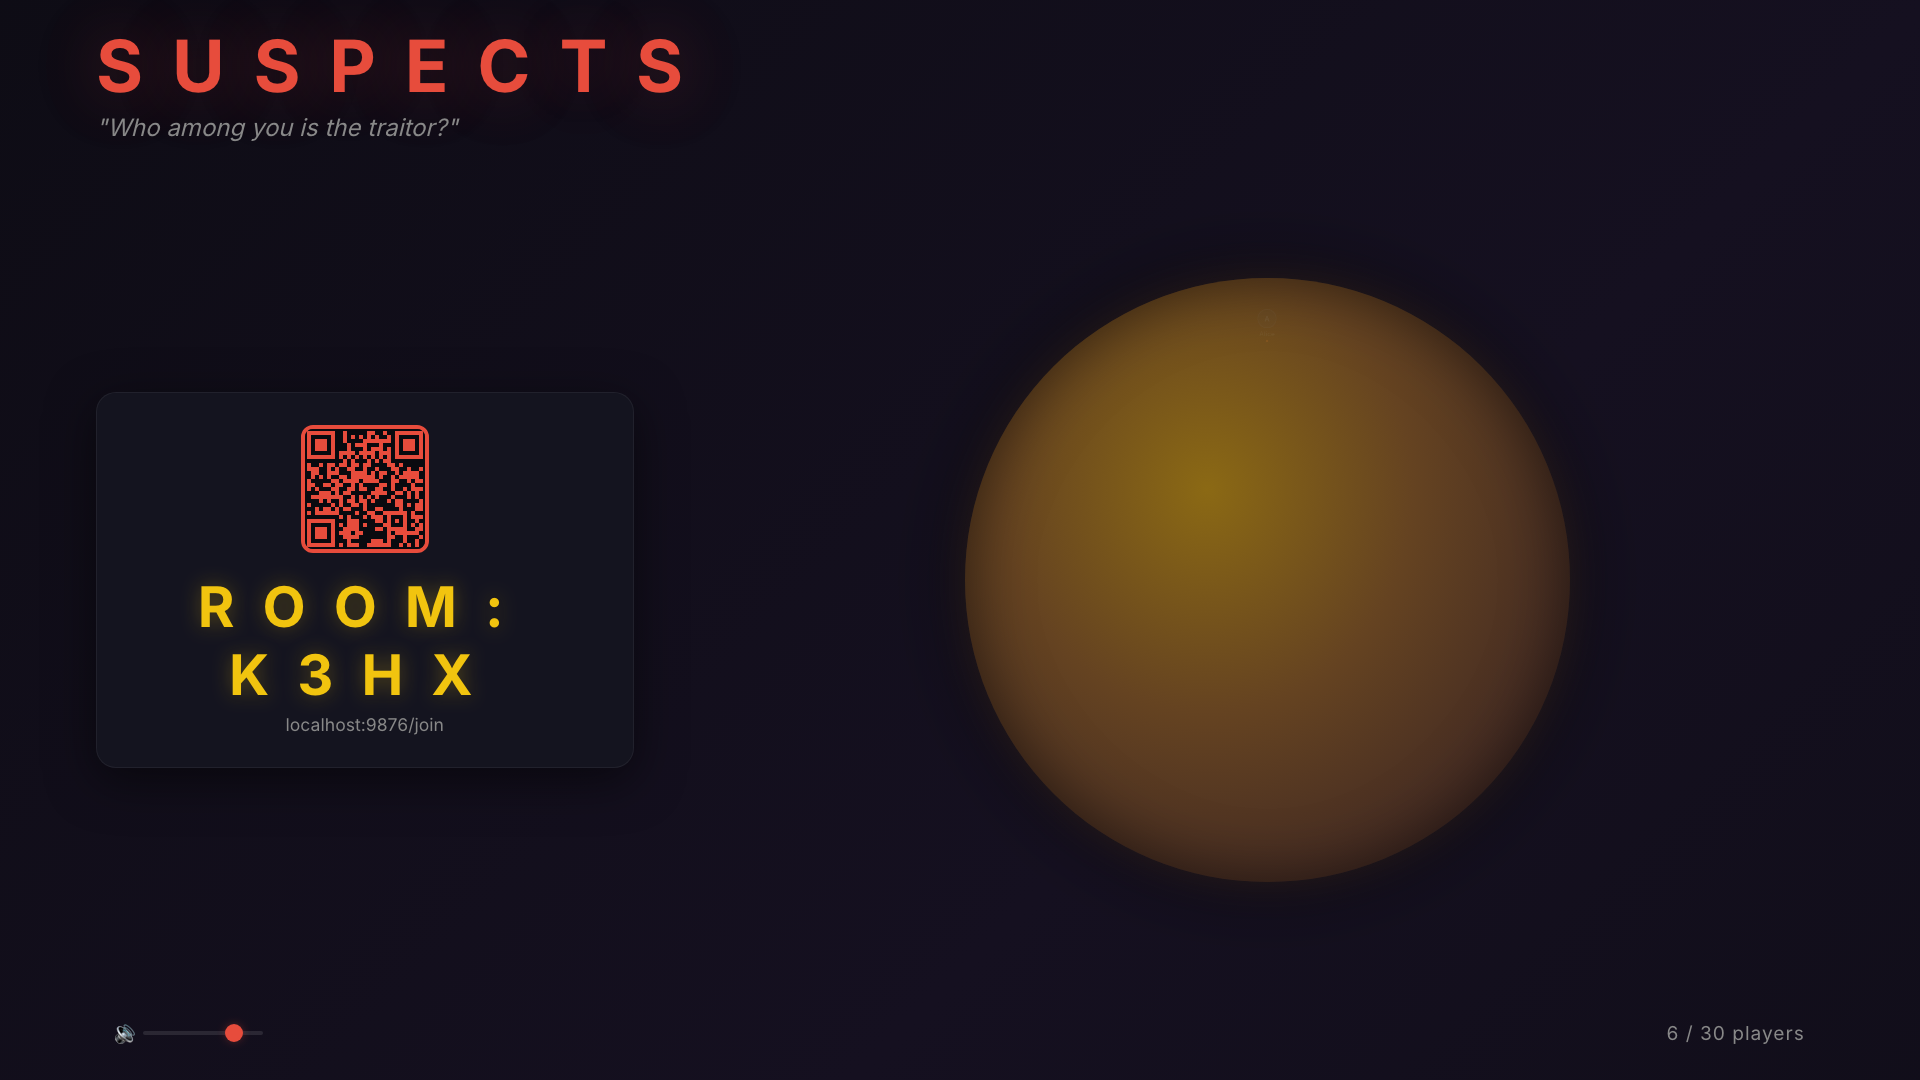
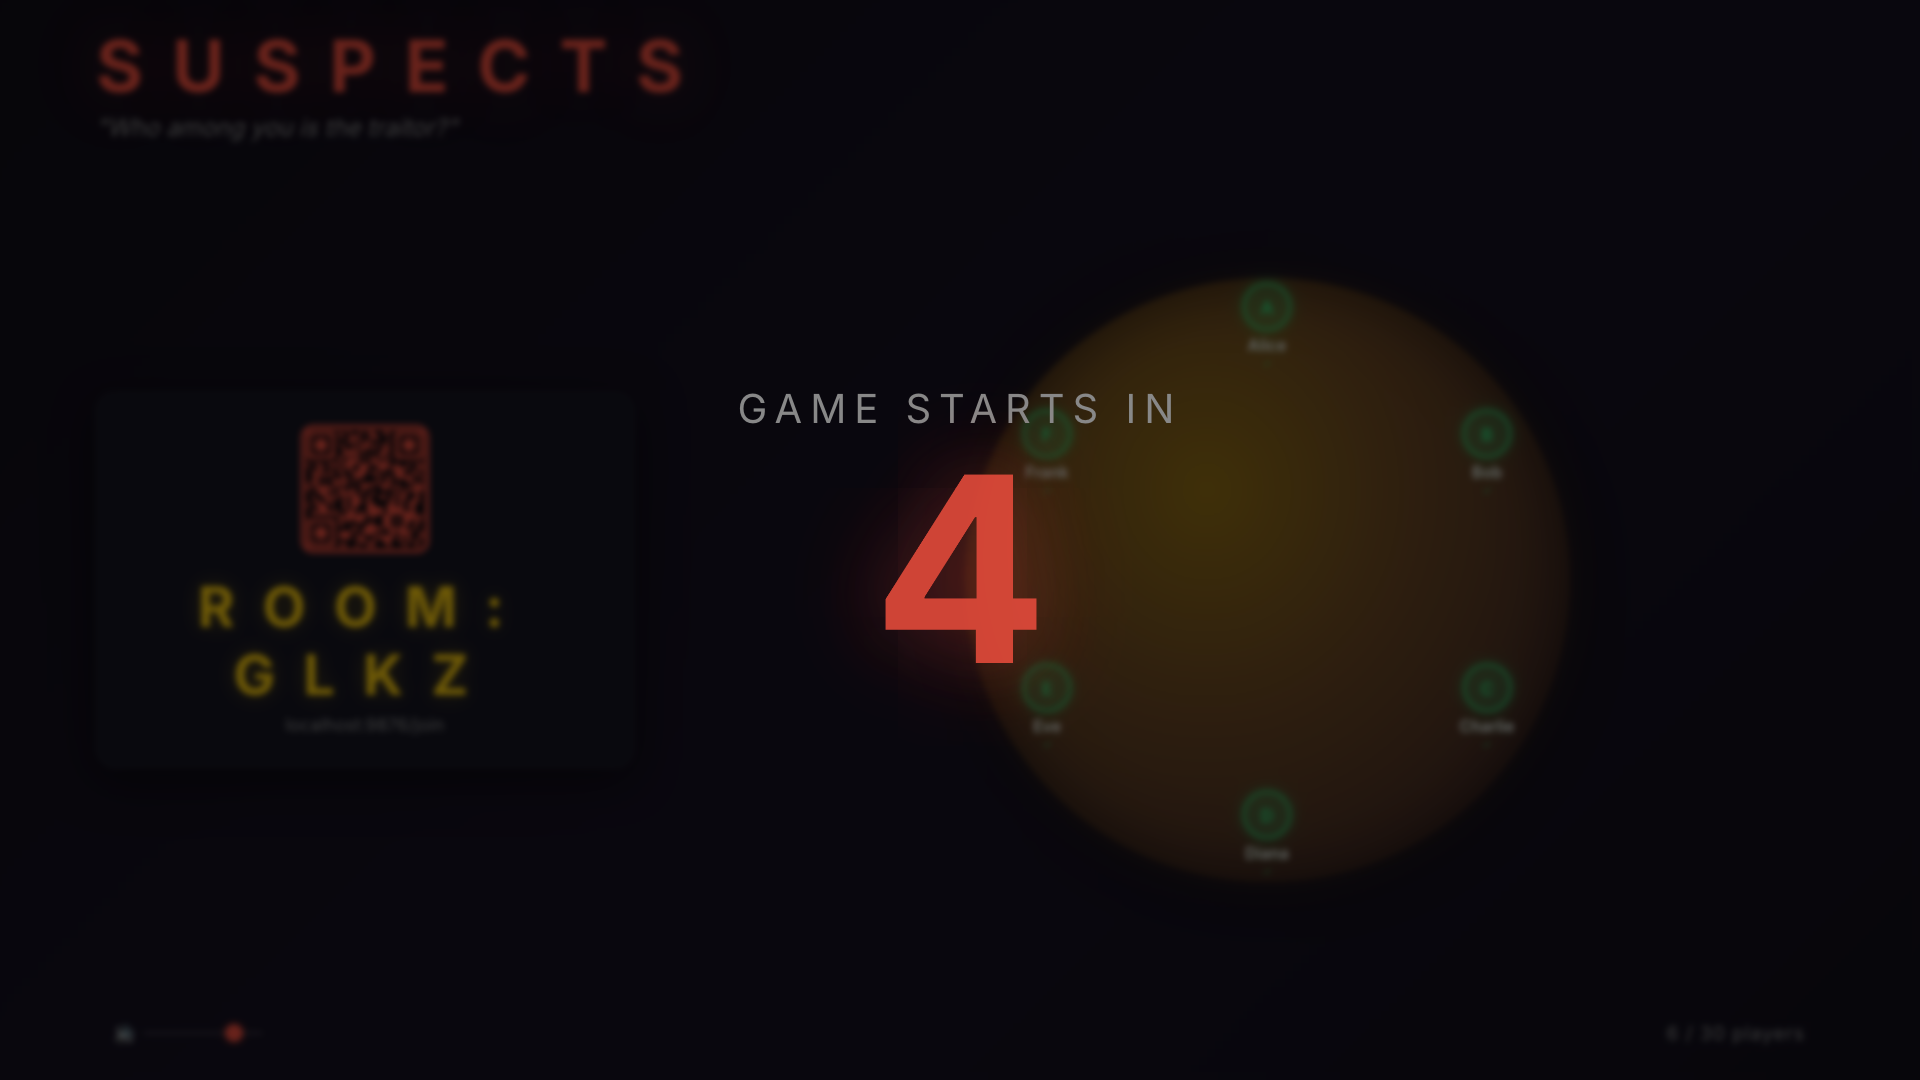
fix: role reveal screenshots, parallel voting, report spacing
- Capture role cards after server reveals (not before)
- Vote all players in parallel to avoid 10s timer expiry
- Force-advance stuck narration via WS fallback
- Reduce report spacing, fix phone carousel sizing
- Update README screenshots and descriptions

diff --git a/tests/e2e/game-flow.spec.js b/tests/e2e/game-flow.spec.js
@@ -324,40 +324,32 @@ test.describe('Suspects E2E — Full Game Flow', () => {
         await host.waitForSelector('#game-screen.active', { timeout: 15000 });
         await snap(host, 'host-game-started', { phase: 'RoleReveal', device: 'tv' });
 
-        // Role reveal — advance through ALL reveals to Night, then replay flip for GIFs
+        // Role reveal — wait for role screen, capture card backs
         for (let i = 0; i < PLAYER_COUNT; i++) {
             try { await playerPages[i].waitForSelector('#role-screen.active', { timeout: 8000 }); } catch {}
         }
+        await snapPlayers(playerPages, 'players-role-card-back', { phase: 'RoleReveal' });
 
         // Advance through all role reveals to Night
         await advanceNarration(host, playerPages, 'night', 30);
 
-        // Temporarily restore role screen on each player for PNG before/after capture
+        // Capture role cards (players now know their roles — show the flipped card)
         await Promise.all(playerPages.map(p =>
             p.evaluate(() => {
+                // Force show role screen with card flipped to reveal role
+                document.querySelectorAll('.screen').forEach(s => s.classList.remove('active'));
                 document.getElementById('role-screen').classList.add('active');
-                document.getElementById('sleeping-screen').classList.remove('active');
-                document.getElementById('flip-card').classList.remove('flipped');
+                const flipCard = document.getElementById('flip-card');
+                flipCard.classList.add('flipped');
             })
         ));
-        await playerPages[0].waitForTimeout(200);
+        await playerPages[0].waitForTimeout(400);
+        await snapPlayers(playerPages, 'players-role-revealed', { phase: 'RoleReveal' });
 
-        // Capture "before flip" PNGs
-        await snapPlayers(playerPages, 'players-role-before-flip', { phase: 'RoleReveal' });
-
-        // Trigger flip on all phones and wait for animation
-        await Promise.all(playerPages.map(p =>
-            p.evaluate(() => document.getElementById('flip-card').classList.add('flipped'))
-        ));
-        await playerPages[0].waitForTimeout(800);
-
-        // Capture "after flip" PNGs
-        await snapPlayers(playerPages, 'players-role-after-flip', { phase: 'RoleReveal' });
-
-        // Restore night/sleeping screen
+        // Restore sleeping screen (night phase)
         await Promise.all(playerPages.map(p =>
             p.evaluate(() => {
-                document.getElementById('role-screen').classList.remove('active');
+                document.querySelectorAll('.screen').forEach(s => s.classList.remove('active'));
                 document.getElementById('sleeping-screen').classList.add('active');
             })
         ));
@@ -561,42 +553,44 @@ test.describe('Suspects E2E — Full Game Flow', () => {
             const voteTarget = aliveMafia.length > 0 ? aliveMafia[0] : [...aliveSet][0];
             console.log(`  Vote target: ${voteTarget}`);
 
+            // Vote ALL alive players in parallel — avoid sequential timeouts exceeding vote timer
+            const votePromises = [];
             for (let i = 0; i < PLAYER_COUNT; i++) {
                 if (!aliveSet.has(PLAYER_NAMES[i])) continue;
                 const p = playerPages[i];
-                try {
-                    await p.waitForSelector('#vote-screen.active', { timeout: 8000 });
-                    await p.waitForTimeout(500); // let vote targets render
+                const name = PLAYER_NAMES[i];
+                votePromises.push((async () => {
+                    try {
+                        await p.waitForSelector('#vote-screen.active', { timeout: 8000 });
+                        await p.waitForTimeout(300);
 
-                    // Check how many vote target rows exist
-                    const rowCount = await p.locator('.vote-target-row').count().catch(() => 0);
-                    if (rowCount === 0) {
-                        console.log(`  ${PLAYER_NAMES[i]}: no vote targets, skipping`);
-                        continue;
-                    }
+                        // Use evaluate to vote directly — bypasses Playwright visibility checks
+                        const voted = await p.evaluate((targetName) => {
+                            const rows = document.querySelectorAll('.vote-target-row');
+                            if (rows.length === 0) return false;
 
-                    // Select vote target by name, fallback to first row
-                    const targetRow = p.locator(`.vote-target-row:has-text("${voteTarget}")`);
-                    if (await targetRow.count() > 0 && await targetRow.first().isVisible().catch(() => false)) {
-                        await targetRow.first().click();
-                    } else {
-                        await p.locator('.vote-target-row').first().click();
-                    }
-                    await p.waitForTimeout(200);
+                            let targetRow = null;
+                            for (const row of rows) {
+                                if (row.textContent.includes(targetName)) { targetRow = row; break; }
+                            }
+                            if (!targetRow) targetRow = rows[0];
 
-                    // Click cast vote button (should be enabled after selecting target)
-                    const castBtn = p.locator('#cast-vote-btn');
-                    if (await castBtn.isEnabled().catch(() => false)) {
-                        await castBtn.click({ timeout: 2000 });
-                    } else {
-                        console.log(`  ${PLAYER_NAMES[i]}: cast-vote-btn still disabled`);
+                            targetRow.click();
+                            setTimeout(() => {
+                                const castBtn = document.getElementById('cast-vote-btn');
+                                if (castBtn && !castBtn.disabled) castBtn.click();
+                            }, 100);
+                            return true;
+                        }, voteTarget);
+
+                        if (!voted) console.log(`  ${name}: no vote targets found`);
+                    } catch (e) {
+                        console.log(`  Vote failed for ${name}: ${e.message?.split('\n')[0]}`);
                     }
-                } catch (e) {
-                    console.log(`  Vote failed for ${PLAYER_NAMES[i]}: ${e.message}`);
-                }
+                })());
             }
-
-            await host.waitForTimeout(1500);
+            await Promise.all(votePromises);
+            await host.waitForTimeout(500);
             await snap(host, `host-votes-cast-r${round}`, { phase: 'Voting', device: 'tv' });
             await snapAlivePlayers(playerPages, `players-voted-r${round}`, aliveSet, { phase: 'Voting' });
 

diff --git a/tests/e2e/report-generator.js b/tests/e2e/report-generator.js
@@ -69,9 +69,9 @@ function generateReport(reportEntries, screenshotDir) {
 * { box-sizing: border-box; margin: 0; padding: 0; }
 body { background: #0a0a0f; color: #e0e0e0; font-family: 'Inter', system-ui, sans-serif; padding: 2rem; }
 h1 { text-align: center; font-size: 2.5rem; color: #e74c3c; letter-spacing: 0.2em; margin-bottom: 0.5rem; }
-.subtitle { text-align: center; color: #888; margin-bottom: 3rem; }
-.section { margin-bottom: 3rem; border-bottom: 1px solid #222; padding-bottom: 2rem; position: relative; }
-.section-header { display: flex; align-items: center; gap: 1rem; margin-bottom: 1rem; flex-wrap: wrap; }
+.subtitle { text-align: center; color: #888; margin-bottom: 2rem; }
+.section { margin-bottom: 1.5rem; border-bottom: 1px solid #222; padding-bottom: 1.5rem; position: relative; }
+.section-header { display: flex; align-items: center; gap: 0.75rem; margin-bottom: 0.75rem; flex-wrap: wrap; }
 .phase-badge { background: #e74c3c; color: white; padding: 0.3rem 1rem; border-radius: 20px; font-size: 0.85rem; font-weight: 700; text-transform: uppercase; letter-spacing: 0.1em; }
 .step-badge { background: #333; color: #fff; padding: 0.3rem 0.8rem; border-radius: 20px; font-size: 0.8rem; font-weight: 600; font-variant-numeric: tabular-nums; }
 .narrator-text { color: #f1c40f; font-style: italic; font-size: 1.1rem; }
@@ -84,13 +84,13 @@ h1 { text-align: center; font-size: 2.5rem; color: #e74c3c; letter-spacing: 0.2e
 .single-shot.tv img { max-width: 900px; }
 .single-shot.phone img { max-width: 300px; }
 .carousel { position: relative; overflow: hidden; }
-.carousel-track { display: flex; gap: 1rem; overflow-x: auto; scroll-snap-type: x mandatory; padding: 1rem 0;
+.carousel-track { display: flex; gap: 0.75rem; overflow-x: auto; scroll-snap-type: x mandatory; padding: 0.5rem 0;
     scrollbar-width: thin; scrollbar-color: #e74c3c #1a1a2e; }
 .carousel-track::-webkit-scrollbar { height: 8px; }
 .carousel-track::-webkit-scrollbar-track { background: #1a1a2e; border-radius: 4px; }
 .carousel-track::-webkit-scrollbar-thumb { background: #e74c3c; border-radius: 4px; }
 .carousel-item { flex: 0 0 auto; scroll-snap-align: start; text-align: center; }
-.carousel-item img { height: 500px; width: auto; border-radius: 12px; border: 2px solid #333; transition: border-color 0.2s; }
+.carousel-item img { width: 195px; height: 422px; object-fit: cover; object-position: top; border-radius: 12px; border: 2px solid #333; transition: border-color 0.2s; }
 .carousel-item img:hover { border-color: #e74c3c; }
 .carousel-item .player-label { margin-top: 0.5rem; color: #aaa; font-size: 0.9rem; font-weight: 600; }
 .player-label { margin-top: 0.5rem; color: #aaa; font-size: 0.9rem; font-weight: 600; text-align: center; }

diff --git a/README.md b/README.md
@@ -8,19 +8,19 @@ One screen (TV or computer) displays the main game board. Players join from thei
 
 <p align="center">
   <img src="docs/screenshots/host-lobby.png" alt="Host lobby screen" width="700">
-  <br><em>Host lobby — create a room, share the QR code</em>
+  <br><em>Host lobby — round table with players, QR code, countdown to game start</em>
 </p>
 
 <p align="center">
   <img src="docs/screenshots/host-night.png" alt="Night phase" width="700">
-  <br><em>Night phase — atmospheric view with stars, moon, and alive player tracker</em>
+  <br><em>Night phase — the Mafia wakes up to choose their victim</em>
 </p>
 
 <p align="center">
-  <img src="docs/screenshots/player-join.png" alt="Player join screen" width="300">
-  &nbsp;&nbsp;&nbsp;
-  <img src="docs/screenshots/player-role.png" alt="Player role card" width="300">
-  <br><em>Player screens — join on your phone, receive your secret role</em>
+  <img src="docs/screenshots/player-join.png" alt="Player join screen" width="250">
+  &nbsp;&nbsp;&nbsp;&nbsp;
+  <img src="docs/screenshots/player-role.png" alt="Player role card" width="250">
+  <br><em>Player screens — join from your phone, receive your secret role</em>
 </p>
 
 ## Features
